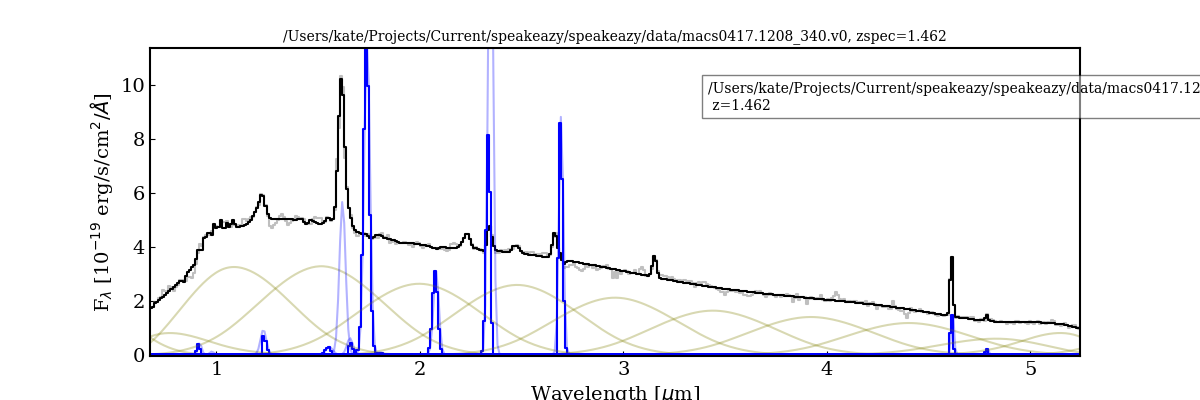
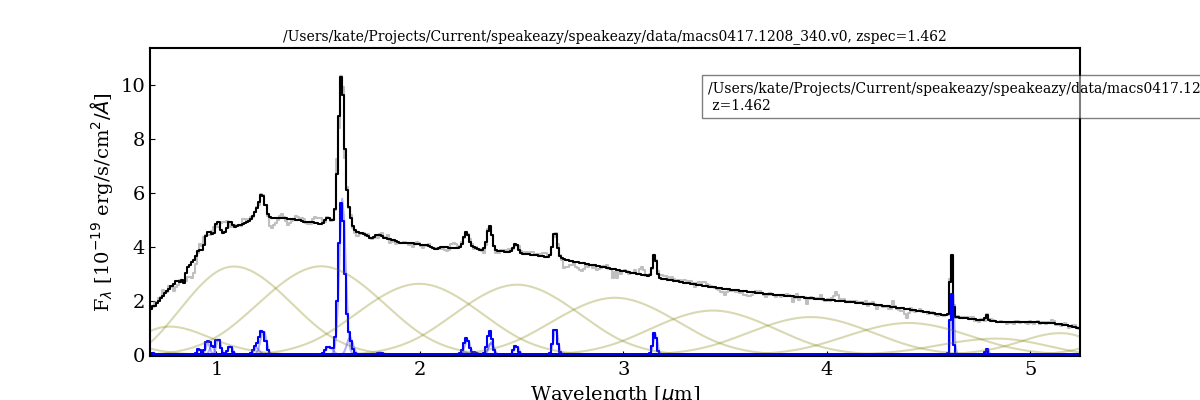
.

diff --git a/speakeazy/tests/test_fitting.py b/speakeazy/tests/test_fitting.py
@@ -12,9 +12,21 @@ class TestSampler():
          self.spectrum = data.Data(spectrum_file=_spec_file,photometry_file=None,run_ID=1,phot_id=None)
          self.priors = priors.Priors(self.spectrum)
          
+         
+    def test_filenames(self):
+         " make sure a file is created with the run ID and all figures and outputs are saved to that file."
+         self.spectrum.fname = 'macs0417.1208_340.v0'
+         print(self.spectrum.fname)
+         print(self.spectrum.ID)
 
     def test_fitting(self):
-            
-            fit_object = fitting.Fitter(self.spectrum,self.priors)
-            fit_object.fit_redshift_chisq()
-            fit_object.plot_spectrum()
+         fit_object = fitting.Fitter(self.spectrum,self.priors)
+         fit_object.fit_redshift_chisq()
+         fit_object.data.fname = 'macs0417.1208_340.v0'
+         fit_object.plot_spectrum(save=True)
+
+         test_path = f'{fit_object.data.run_ID}_initial_fit.png'
+        
+         check = os.path.exists(test_path)
+        
+         assert check==True 

diff --git a/speakeazy/fitting.py b/speakeazy/fitting.py
@@ -586,10 +586,10 @@ class Fitter(object):
             #print(-2.*lprob)
             return -2.*lprob # chi2
         else:
-            return mspec*pscale,_mline*pscale,_mbline*pscale,_mcont*pscale
+            return mspec,_mline,_mbline,_mcont
    
         
-    def plot_spectrum(self,save=False,fname=None,flat_samples=None,line_snr=5.,show_lines=False,ylims=None,xlims=None):
+    def plot_spectrum(self,save=False,savedir=None,fname=None,flat_samples=None,line_snr=5.,show_lines=False,ylims=None,xlims=None):
         
         mask = self.data.valid
         flam = self.data.spec_fnu*self.data.to_flam
@@ -708,5 +708,5 @@ class Fitter(object):
         else:
             plt.xlim(xmin+0.05,xmax-0.03)
         if save:
-            plt.savefig(f'{self.data.run_ID}_initial_fit.png')
+            plt.savefig(f'{self.data.run_ID}/{self.data.fname}_initial_fit.png')
         return #fig

diff --git a/speakeazy/tests/test_sampling.py b/speakeazy/tests/test_sampling.py
@@ -80,13 +80,3 @@ class TestSampler():
          
          self.sampler.run_emcee()
          
-    def test_file_saving(self):
-        """test_file_saving 
-
-        Ensure all files from running actually end up in the designated folder 
-        """
-        test_path = f'{self.sampler.data.run_ID}_initial_fit.png'
-        
-        check = os.path.exists(test_path)
-        
-        assert check==True 

diff --git a/noxfile.py b/noxfile.py
@@ -10,6 +10,6 @@ def tests(session):
     if session.posargs:
         test_files = session.posargs
     else:
-        test_files = ['speakeazy/tests/test_sampling.py']
+        test_files = ['speakeazy/tests/test_fitting.py']
 
     session.run('pytest', *test_files)

diff --git a/speakeazy/data.py b/speakeazy/data.py
@@ -66,7 +66,7 @@ class Data(object):
             froot = spectrum_file.split('.fits')[0]
             
         self.fname = froot
-        self.ID = froot+f"{self.run_ID}/"
+        self.ID = f"{self.run_ID}/"+froot
         
         self.initialize_spec()
 
